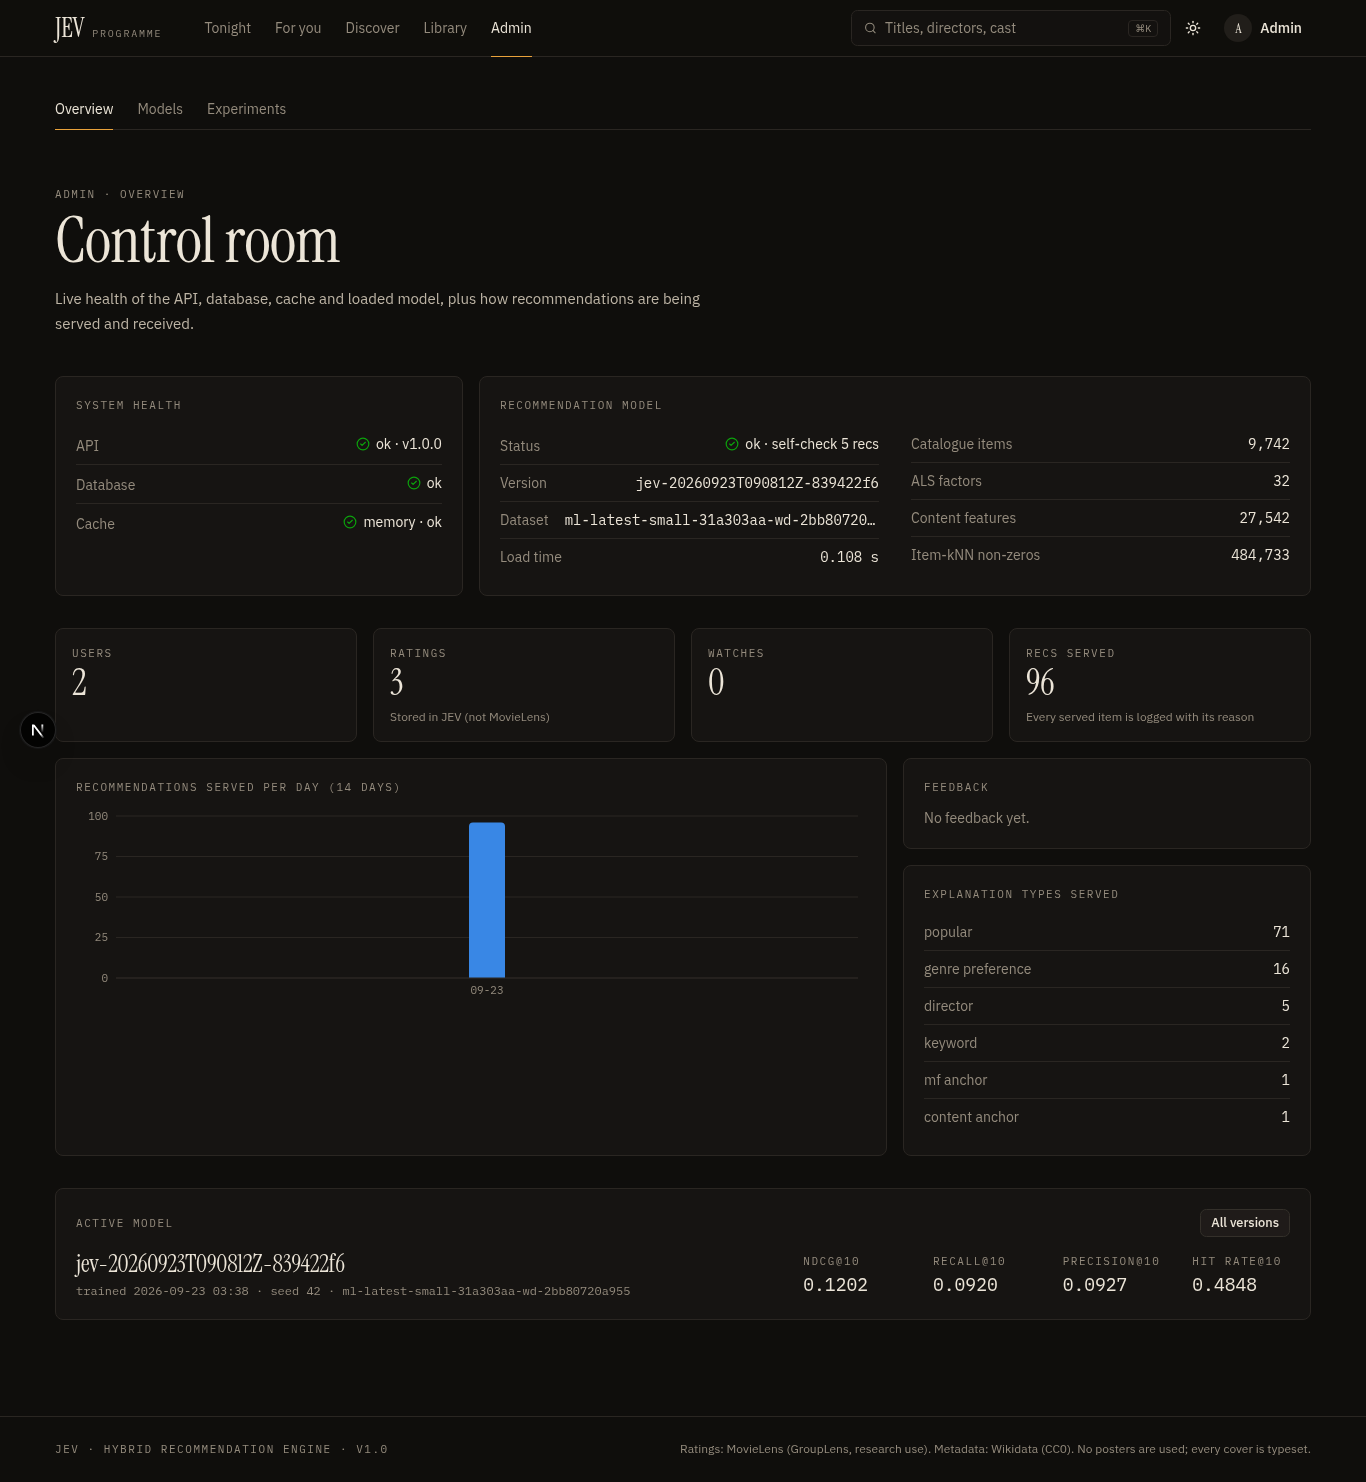
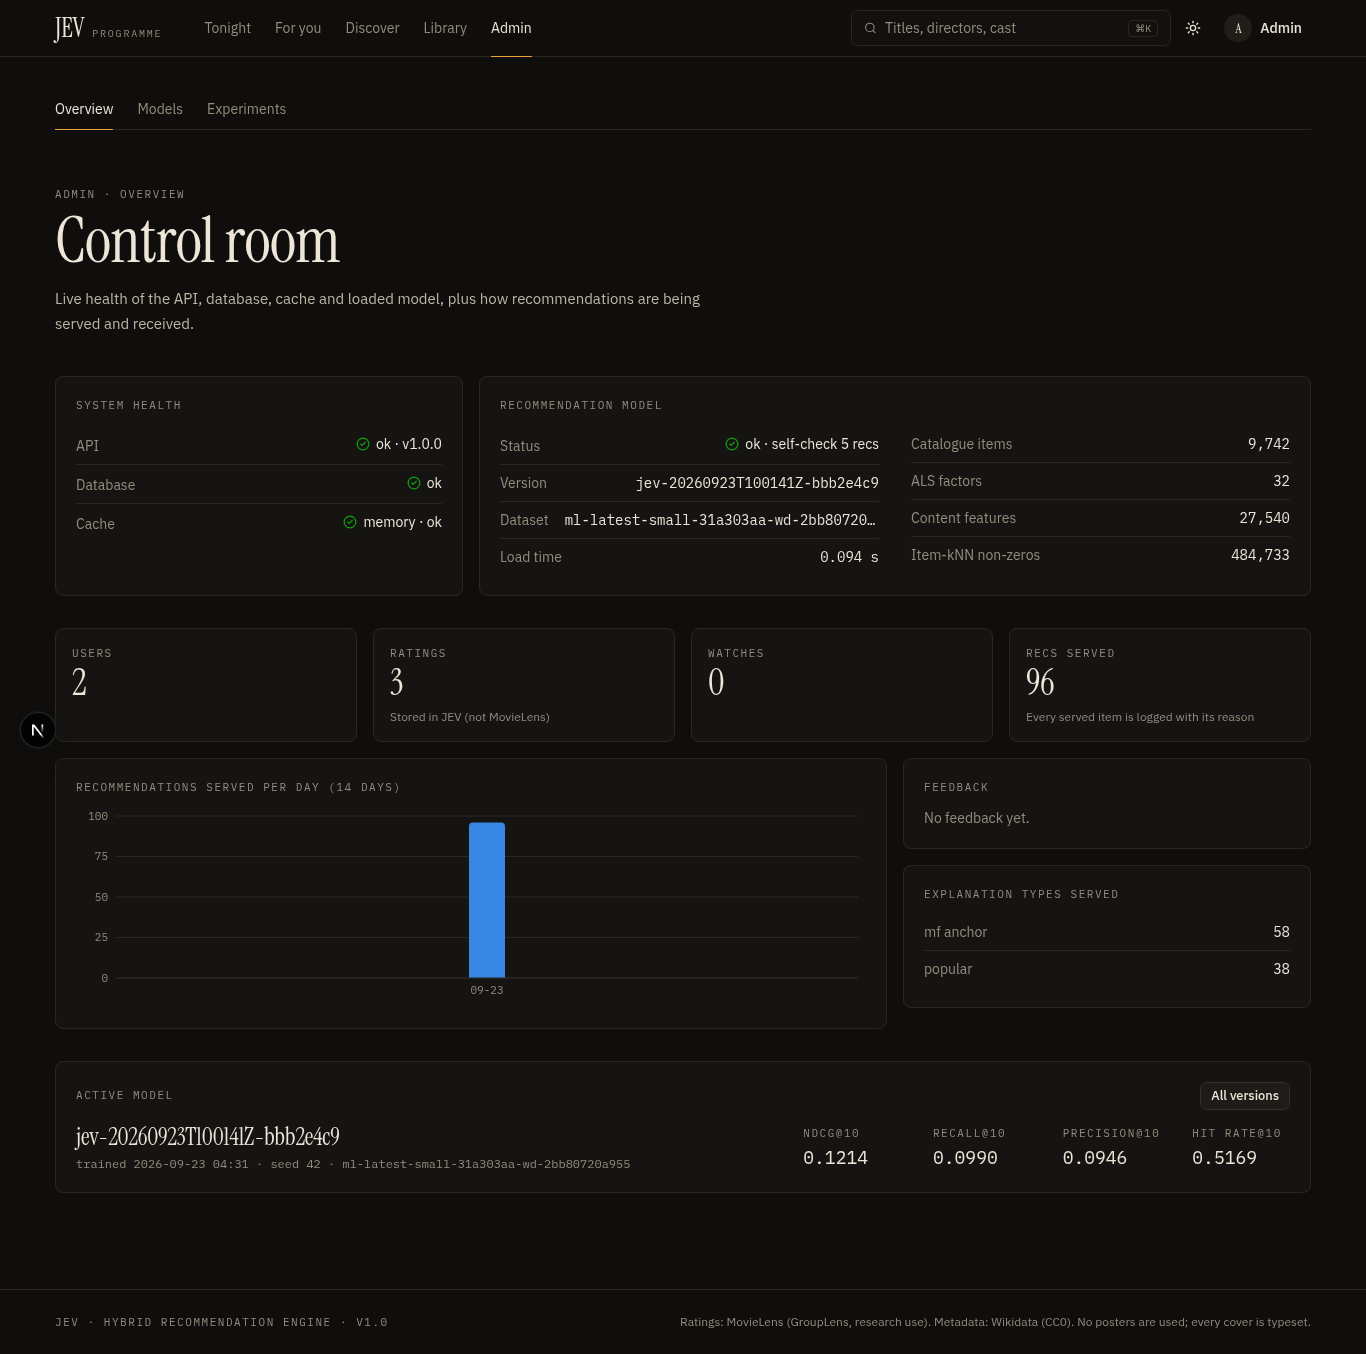
Add README and LICENSE; env-friendly CORS config, compose project name, refreshed docs and screenshots

diff --git a/backend/jev_api/config.py b/backend/jev_api/config.py
@@ -6,9 +6,10 @@ import logging
 import secrets
 from functools import lru_cache
 from pathlib import Path
+from typing import Annotated
 
 from pydantic import Field, SecretStr, field_validator
-from pydantic_settings import BaseSettings, SettingsConfigDict
+from pydantic_settings import BaseSettings, NoDecode, SettingsConfigDict
 
 from jev_ml.paths import EXPERIMENTS_DIR, MODELS_DIR, ROOT
 
@@ -26,7 +27,8 @@ class Settings(BaseSettings):
     jwt_expire_minutes: int = 60 * 24
     cookie_name: str = "jev_session"
     cookie_secure: bool = False
-    cors_origins: list[str] = ["http://localhost:3000", "http://127.0.0.1:3000"]
+    # comma-separated in the environment (NoDecode: skip JSON parsing, see _split_origins)
+    cors_origins: Annotated[list[str], NoDecode] = ["http://localhost:3000", "http://127.0.0.1:3000"]
     rate_limit_per_minute: int = 240
     auth_rate_limit_per_minute: int = 20
     admin_email: str | None = None

diff --git a/tests/integration/test_api.py b/tests/integration/test_api.py
@@ -218,3 +218,10 @@ def test_secret_redaction():
     )
     assert out["password"] == "[REDACTED]" and out["nested"]["api_key"] == "[REDACTED]"
     assert "abc.def" not in out["msg"] and "s3cret" not in out["url"]
+
+
+def test_cors_origins_parse_from_comma_separated_env(monkeypatch):
+    from jev_api.config import Settings
+
+    monkeypatch.setenv("JEV_CORS_ORIGINS", "http://localhost:3000, https://jev.example.com")
+    assert Settings().cors_origins == ["http://localhost:3000", "https://jev.example.com"]

diff --git a/README.md b/README.md
@@ -1,0 +1,146 @@
+# JEV — Intelligent Hybrid Recommendation Engine
+
+*A film programme that learns you.* JEV is a personalised movie recommender. It blends **content-based**,
+**collaborative filtering**, **matrix factorization**, **popularity** and **behavioural** signals into one ranked list,
+explains every pick from the model's actual evidence, and measures itself on a held-out test set.
+
+![Home](docs/screenshots/04-home.png)
+
+## Problem statement
+Single-strategy recommenders fail in predictable ways. Popularity is not personal. Collaborative filtering fails for
+new users and new films. Content similarity keeps suggesting the same director. Latent factors are accurate but opaque.
+JEV combines them in a ranking pipeline whose weights adapt to how much it knows about each user. It is diversified,
+explainable and evaluated under one reproducible protocol.
+
+## At a glance
+| | |
+|---|---|
+| Dataset | MovieLens `ml-latest-small` (9,742 films, 100,836 ratings, 610 users) + Wikidata metadata (directors, cast, themes) |
+| Models | Popularity · TF-IDF content · Item-kNN CF · Implicit ALS · **Hybrid** (6 signals, adaptive weights, MMR diversity) |
+| Best result (test, 592 users) | **Hybrid NDCG@10 0.1214**, Recall@10 0.0990, HitRate@10 0.517: +21% NDCG over the best single model |
+| Stack | FastAPI · SQLAlchemy + Alembic · PostgreSQL · Redis · Next.js 16 + TypeScript · Tailwind v4 · shadcn/ui · Recharts · Docker Compose |
+| Laptop footprint | CPU only, no GPU or torch. Tuned training about 4.5 min, `--quick` training < 1 min, model load 0.1 s, about 25 ms per recommendation request |
+
+## System architecture
+```
+Next.js (dark/paper UI) ──/api/*──► FastAPI ──► RecommendationEngine (loads models/<version>)
+                                       │  └──► PostgreSQL (users, ratings, recs, feedback, registry mirror)
+                                       └────► Redis (rec cache, rate limits)
+offline: download → validate → clean → features → split → tune → evaluate → train → register → report
+```
+Details: [ARCHITECTURE.md](ARCHITECTURE.md).
+
+## Recommendation algorithms
+1. **Popularity**: log like-counts, time-decayed trending, and a Bayesian-average rating.
+2. **Content-based**: separate TF-IDF per field (genres, directors, cast, keywords, tags, title, description, decade),
+   field-weighted and cosine-scored, with a signed user taste vector.
+3. **Collaborative filtering**: item-item cosine with shrinkage over the sparse implicit matrix, top-k neighbours.
+4. **Matrix factorization**: implicit ALS (Hu–Koren–Volinsky), with exact fold-in for new users and exact score attribution.
+5. **Hybrid**: candidate generation → filtering → six normalised signals → interaction-adaptive weighted score →
+   quality floor → MMR diversity → top-K with pagination. Every item carries its per-signal breakdown and a reason
+   built from real contributions: *"Recommended because of your interest in Christopher Nolan"*, *"Because you liked
+   Inception"*, *"Viewers who enjoyed The Dark Knight also loved this"*.
+
+Full description: [docs/recommendation-algorithms.md](docs/recommendation-algorithms.md).
+
+## Dataset
+MovieLens (GroupLens, research licence) is downloaded by script and MD5-verified; it is never committed. Wikidata (CC0)
+enrichment is fetched by IMDb id: 9,651/9,742 films matched, 98.5% have a director. Fields, sizes, validation and
+versioning are documented in [docs/ml-pipeline.md](docs/ml-pipeline.md).
+
+## Installation
+Requirements: Python 3.11+ with [uv](https://docs.astral.sh/uv/), Node 20.9+ with pnpm. Docker is optional.
+```bash
+cp .env.example .env            # set secrets
+uv sync
+cd frontend && pnpm install && cd ..
+```
+
+## Training
+```bash
+uv run python scripts/download_data.py      # --skip-enrichment to work offline
+uv run python scripts/preprocess_data.py
+uv run python scripts/train_models.py       # tune on validation, evaluate on test, train + register (≈4.5 min CPU)
+uv run python scripts/train_models.py --quick   # no tuning
+uv run python scripts/generate_recommendations.py --rate 79132=5 109487=5 --genres Sci-Fi
+```
+
+## Evaluation
+Per-user temporal split (70/10/20), relevance = held-out rating ≥ 4, full-catalogue ranking with consumed items
+excluded, the same protocol for every model. Numbers from run `jev-hybrid-v1-20260923T095709Z`:
+
+| Model (test, K=10) | Precision | Recall | NDCG | MAP | HitRate | Coverage | Diversity | Novelty |
+|---|---|---|---|---|---|---|---|---|
+| **Hybrid** | **0.0946** | **0.0990** | **0.1214** | **0.0591** | **0.5169** | 0.0514 | 0.9211 | 2.29 |
+| Item-kNN | 0.0828 | 0.0751 | 0.1006 | 0.0480 | 0.4358 | 0.0627 | 0.9178 | 2.54 |
+| ALS | 0.0731 | 0.0840 | 0.0956 | 0.0451 | 0.4392 | 0.0786 | 0.9222 | 2.64 |
+| Popularity | 0.0598 | 0.0489 | 0.0775 | 0.0379 | 0.3209 | 0.0093 | 0.9224 | 1.55 |
+| Content | 0.0044 | 0.0069 | 0.0060 | 0.0026 | 0.0389 | 0.1242 | 0.5961 | 8.29 |
+| Random | 0.0022 | 0.0009 | 0.0024 | 0.0007 | 0.0220 | 0.4530 | 0.9457 | 7.75 |
+
+On the cold-start protocol (3 interactions) popularity still leads (NDCG@10 0.046 vs hybrid 0.035). See
+[docs/evaluation.md](docs/evaluation.md) for the full tables, plots and discussion.
+
+## API
+REST under FastAPI with JWT (httpOnly cookie or bearer) and CSRF protection for cookie writes. Main endpoints:
+`/auth/*`, `/users/me*`, `/movies*`, `/recommendations` (+ `/similar/{id}`, `/trending`, `/because-you-watched`,
+`/similar-to-favorites`, `/feedback`, `/history`), `/models*`, `/experiments*`, `/health`, `/health/ml`.
+Reference: [docs/api.md](docs/api.md). OpenAPI UI is at `http://localhost:8000/docs` in development.
+
+## Frontend
+Next.js 16 App Router. Pages: `/` landing (live metrics), `/login`, `/register`, `/onboarding` (genres → favourites →
+quick ratings), `/home` (six shelves: Recommended for you, Because you watched, Similar to your favourites, Trending,
+Popular, New discoveries), `/discover`, `/movies/[id]`, `/recommendations` (full ranking with "Why this?"
+breakdowns and feedback), `/profile` (taste profile), `/history`, `/favorites`, `/admin`, `/admin/models`,
+`/admin/experiments`.
+
+The design is a festival programme printed for a dark screening room. It uses warm near-black and paper tones, a
+single tungsten-amber accent, serif display type, and typeset covers generated from each film's metadata instead of
+posters. A light "paper" theme is included. It is responsive from 360 px phones to 1440 px laptops, keyboard
+accessible, and respects reduced-motion settings.
+```bash
+uv run uvicorn jev_api.main:app --port 8000      # SQLite + in-memory cache by default
+cd frontend && pnpm dev                          # http://localhost:3000
+```
+
+## Docker
+```bash
+docker compose --profile train run --rm trainer  # first run: data + training into ./data ./models ./experiments
+docker compose up -d --build                     # postgres, redis, api, web → http://localhost:3000
+uv run python scripts/acceptance_test.py --base http://localhost:3000/api --admin-password "$JEV_ADMIN_PASSWORD"
+```
+See [docs/deployment.md](docs/deployment.md).
+
+## Testing
+```bash
+uv run pytest                   # unit + ML + API integration (synthetic data, ~5 s; real-model checks when models/ exists)
+uv run ruff check . && uv run ruff format --check . && uv run mypy
+cd frontend && pnpm exec tsc --noEmit && pnpm exec eslint src && pnpm build
+uv run python scripts/capture_screenshots.py     # real-browser user journey (Chrome) → docs/screenshots
+```
+
+## Screenshots
+| | |
+|---|---|
+| ![Landing](docs/screenshots/01-landing.png) | ![Onboarding](docs/screenshots/02-onboarding-genres.png) |
+| ![Ranked list](docs/screenshots/05-recommendations.png) | ![Why this?](docs/screenshots/06-why-this.png) |
+| ![Movie](docs/screenshots/07-movie-detail.png) | ![Taste profile](docs/screenshots/08-taste-profile.png) |
+| ![Admin experiments](docs/screenshots/12-admin-experiments.png) | ![Mobile, paper theme](docs/screenshots/13-mobile-discover-light.png) |
+
+## Limitations
+- **Cold start**: with about 3 interactions, plain popularity still beats the hybrid on NDCG@10.
+- MovieLens-small is small (610 users) and old (ratings to 2018), so absolute metrics are modest and results may not
+  transfer to other domains. The evaluation split allows cross-user temporal leakage (documented; a global temporal
+  split is available).
+- Wikidata metadata is incomplete: keywords cover 36% of films, and cast lists are unordered (Wikidata has no billing order).
+- App users are not in the training data. They are served by fold-in, and their feedback is not yet fed back into retraining.
+- No password reset or email verification; JWTs are not revocable before expiry.
+- Posters are typeset, not artwork.
+
+## Future improvements
+Separate cold-stage weights or learning-to-rank on logged feedback · sequence-aware models · scheduled retraining that
+includes app interactions · online A/B tests driven by the experiment table · larger MovieLens variants · optional
+TMDB artwork. See [docs/roadmap.md](docs/roadmap.md) and [docs/progress.md](docs/progress.md).
+
+## Licence and credits
+Code: MIT. Data: MovieLens © GroupLens (research use; not redistributed); Wikidata CC0.

diff --git a/docs/progress.md b/docs/progress.md
@@ -3,23 +3,35 @@
 _Last updated: 2026-09-23_
 
 ## Completed
-- Phase 1 — Environment audit: Linux x86_64, 28 cores / 62 GB RAM (dev box; target is *any* laptop),
-  Python 3.14 system + 3.13 via uv, Node 26, pnpm, Docker 29 + Compose v5.
-  No local PostgreSQL/Redis → provided by Docker Compose. Empty repository.
+- **Phase 1 — Audit.** Linux x86-64 dev box; Python 3.12 via uv, Node 26, pnpm, Docker 29 / Compose v5. No local
+  PostgreSQL/Redis (they come from Compose). Empty repository.
+- **Phase 2 — Architecture.** `ARCHITECTURE.md`; single uv project with `ml/jev_ml` + `backend/jev_api`, Next.js in `frontend/`.
+- **Phase 3 — Dependencies.** `pyproject.toml` + `uv.lock`, `frontend/package.json` + `pnpm-lock.yaml`, `.env.example`.
+- **Phase 4 — Data.** MovieLens small downloaded and MD5-verified; Wikidata enrichment (9,651/9,742 matched); validation
+  passes with 0 errors / 0 warnings; processed tables + `dataset_meta.json` (`ml-latest-small-31a303aa-wd-2bb80720a955`).
+- **Phases 5–9 — Models.** Popularity, content TF-IDF, item-kNN, implicit ALS (fold-in + attribution), hybrid ranker
+  (adaptive weights, quality floor, MMR, filters, pagination), grounded explanations.
+- **Phase 10 — Evaluation framework.** Temporal splits, 9 metric families, cold-start protocol, tuning, reports and plots.
+- **Phase 11 — Trained & evaluated.** Run `jev-hybrid-v1-20260923T095709Z` → model `jev-20260923T100141Z-bbb2e4c9`
+  (active). Test NDCG@10: hybrid 0.1214 · item-kNN 0.1006 · ALS 0.0956 · popularity 0.0775 · content 0.0060 · random 0.0024.
+- **Phases 12–15 — Database + API.** SQLAlchemy models, Alembic migration `0001`, JWT (cookie + bearer) with CSRF,
+  Argon2id, profiles, recommendation serving with persistence, feedback, admin registry, health endpoints.
+- **Phases 16–18 — Frontend.** All 14 pages, explanation badges, "Why this?" breakdowns, admin models + experiments
+  dashboards. `pnpm build`, `tsc` and `eslint` all clean.
+- **Phase 19 — Cache.** Redis (rec responses keyed by profile version, trending, similar, rate limits) with in-memory fallback.
+- **Phase 20 — Docker.** `docker-compose.yml` (db, cache, api, web, trainer profile), non-root images.
+- **Phase 21 — Tests.** 56 pytest tests (unit, ML, API integration, real-model checks) pass; ruff, ruff format and mypy clean.
+- **Phase 22 — Security review.** `SECURITY.md`.
+- **Phase 24 — Fixes found by testing:** quadratic featurizer loop, genre normalisation bug, F1 metric-key parsing,
+  stale tuning cache key, synthetic-data timestamp ordering, email-validator rejecting `.local`.
+- **Phase 25 — Docs.** README, ARCHITECTURE, SECURITY, CHANGELOG, docs/*.
 
 ## In progress
-- Phase 2 — Architecture and project structure
+- Phase 20/23 — Docker Compose build + acceptance scenario against the containerised stack.
 
 ## Blocked
 - (none)
 
 ## Next
-- Phase 3 — Dependencies
-- Phase 4 — Dataset
-
-## Design constraints decided in Phase 1
-- **Runs on any laptop**: MovieLens `ml-latest-small` (100k ratings) so the full pipeline trains in
-  well under a minute on CPU; no GPU/torch dependency; numpy/scipy/sklearn only.
-- **Portable dev mode**: backend works with SQLite + in-memory cache when Docker is not available;
-  PostgreSQL + Redis via Docker Compose for the full stack.
-- **No pickles**: model artifacts are `.npz` / `.json` so they are portable and safe to load.
+- Re-run the browser journey against Docker; refresh screenshots with the final model.
+- Roadmap items (cold-stage weights / learning-to-rank) — see [roadmap.md](roadmap.md).

diff --git a/ARCHITECTURE.md b/ARCHITECTURE.md
@@ -40,7 +40,7 @@
 3. **Portable artifacts.** Everything is `.npz` or `.json`, with no pickles. The content featurizer stores its
    vocabulary and IDF, so it can vectorise brand-new movies at inference time (item cold start).
 4. **Runs on any laptop.** The dataset is MovieLens *small* (100k ratings) and everything runs on CPU with numpy,
-   scipy and scikit-learn. A full tuned pipeline takes about 4 minutes, a `--quick` run under 20s, and the
+   scipy and scikit-learn. A full tuned pipeline takes about 4 minutes, a `--quick` run about 21 s (peak RSS about 620 MB), and the
    serving model loads in about 0.1s with about 25ms per recommendation request. Without Docker the API uses
    SQLite plus an in-process cache.
 5. **Files are the source of truth for models.** The API mirrors `models/*/manifest.json` and `experiments/*/metrics.json`

diff --git a/docs/deployment.md b/docs/deployment.md
@@ -12,7 +12,7 @@ Services: `db` (postgres:17-alpine, volume `pgdata`), `cache` (redis:7-alpine, 1
 `train`; `TRAIN_ARGS=--quick` for a fast run). Model artifacts are bind-mounted, so training on the host and serving
 in Docker (or the reverse) share one registry.
 
-Resource use on a laptop: about 350 MB RAM for api + web + db + cache at idle; training peaks around 1.5 GB.
+Resource use: see the measured figures in the README (quick training peaks at about 620 MB RSS).
 
 ## Production checklist
 - `JEV_ENV=production`: disables `/docs` and makes `JEV_JWT_SECRET` mandatory.

diff --git a/docs/development.md b/docs/development.md
@@ -2,7 +2,7 @@
 
 Requirements: **Python 3.11–3.14** (managed by [uv](https://docs.astral.sh/uv/)), **Node 20.9+** with pnpm (via
 `corepack enable`). Docker is optional. Tested on Linux x86-64; everything is pure Python/JS, so macOS (Intel/Apple
-silicon) and Windows (WSL2 or native) work the same way. The pipeline needs < 2 GB RAM.
+silicon) and Windows (WSL2 or native) work the same way. A `--quick` training run peaked at 616 MB RSS in our measurement.
 
 ```bash
 git clone … && cd JEV
